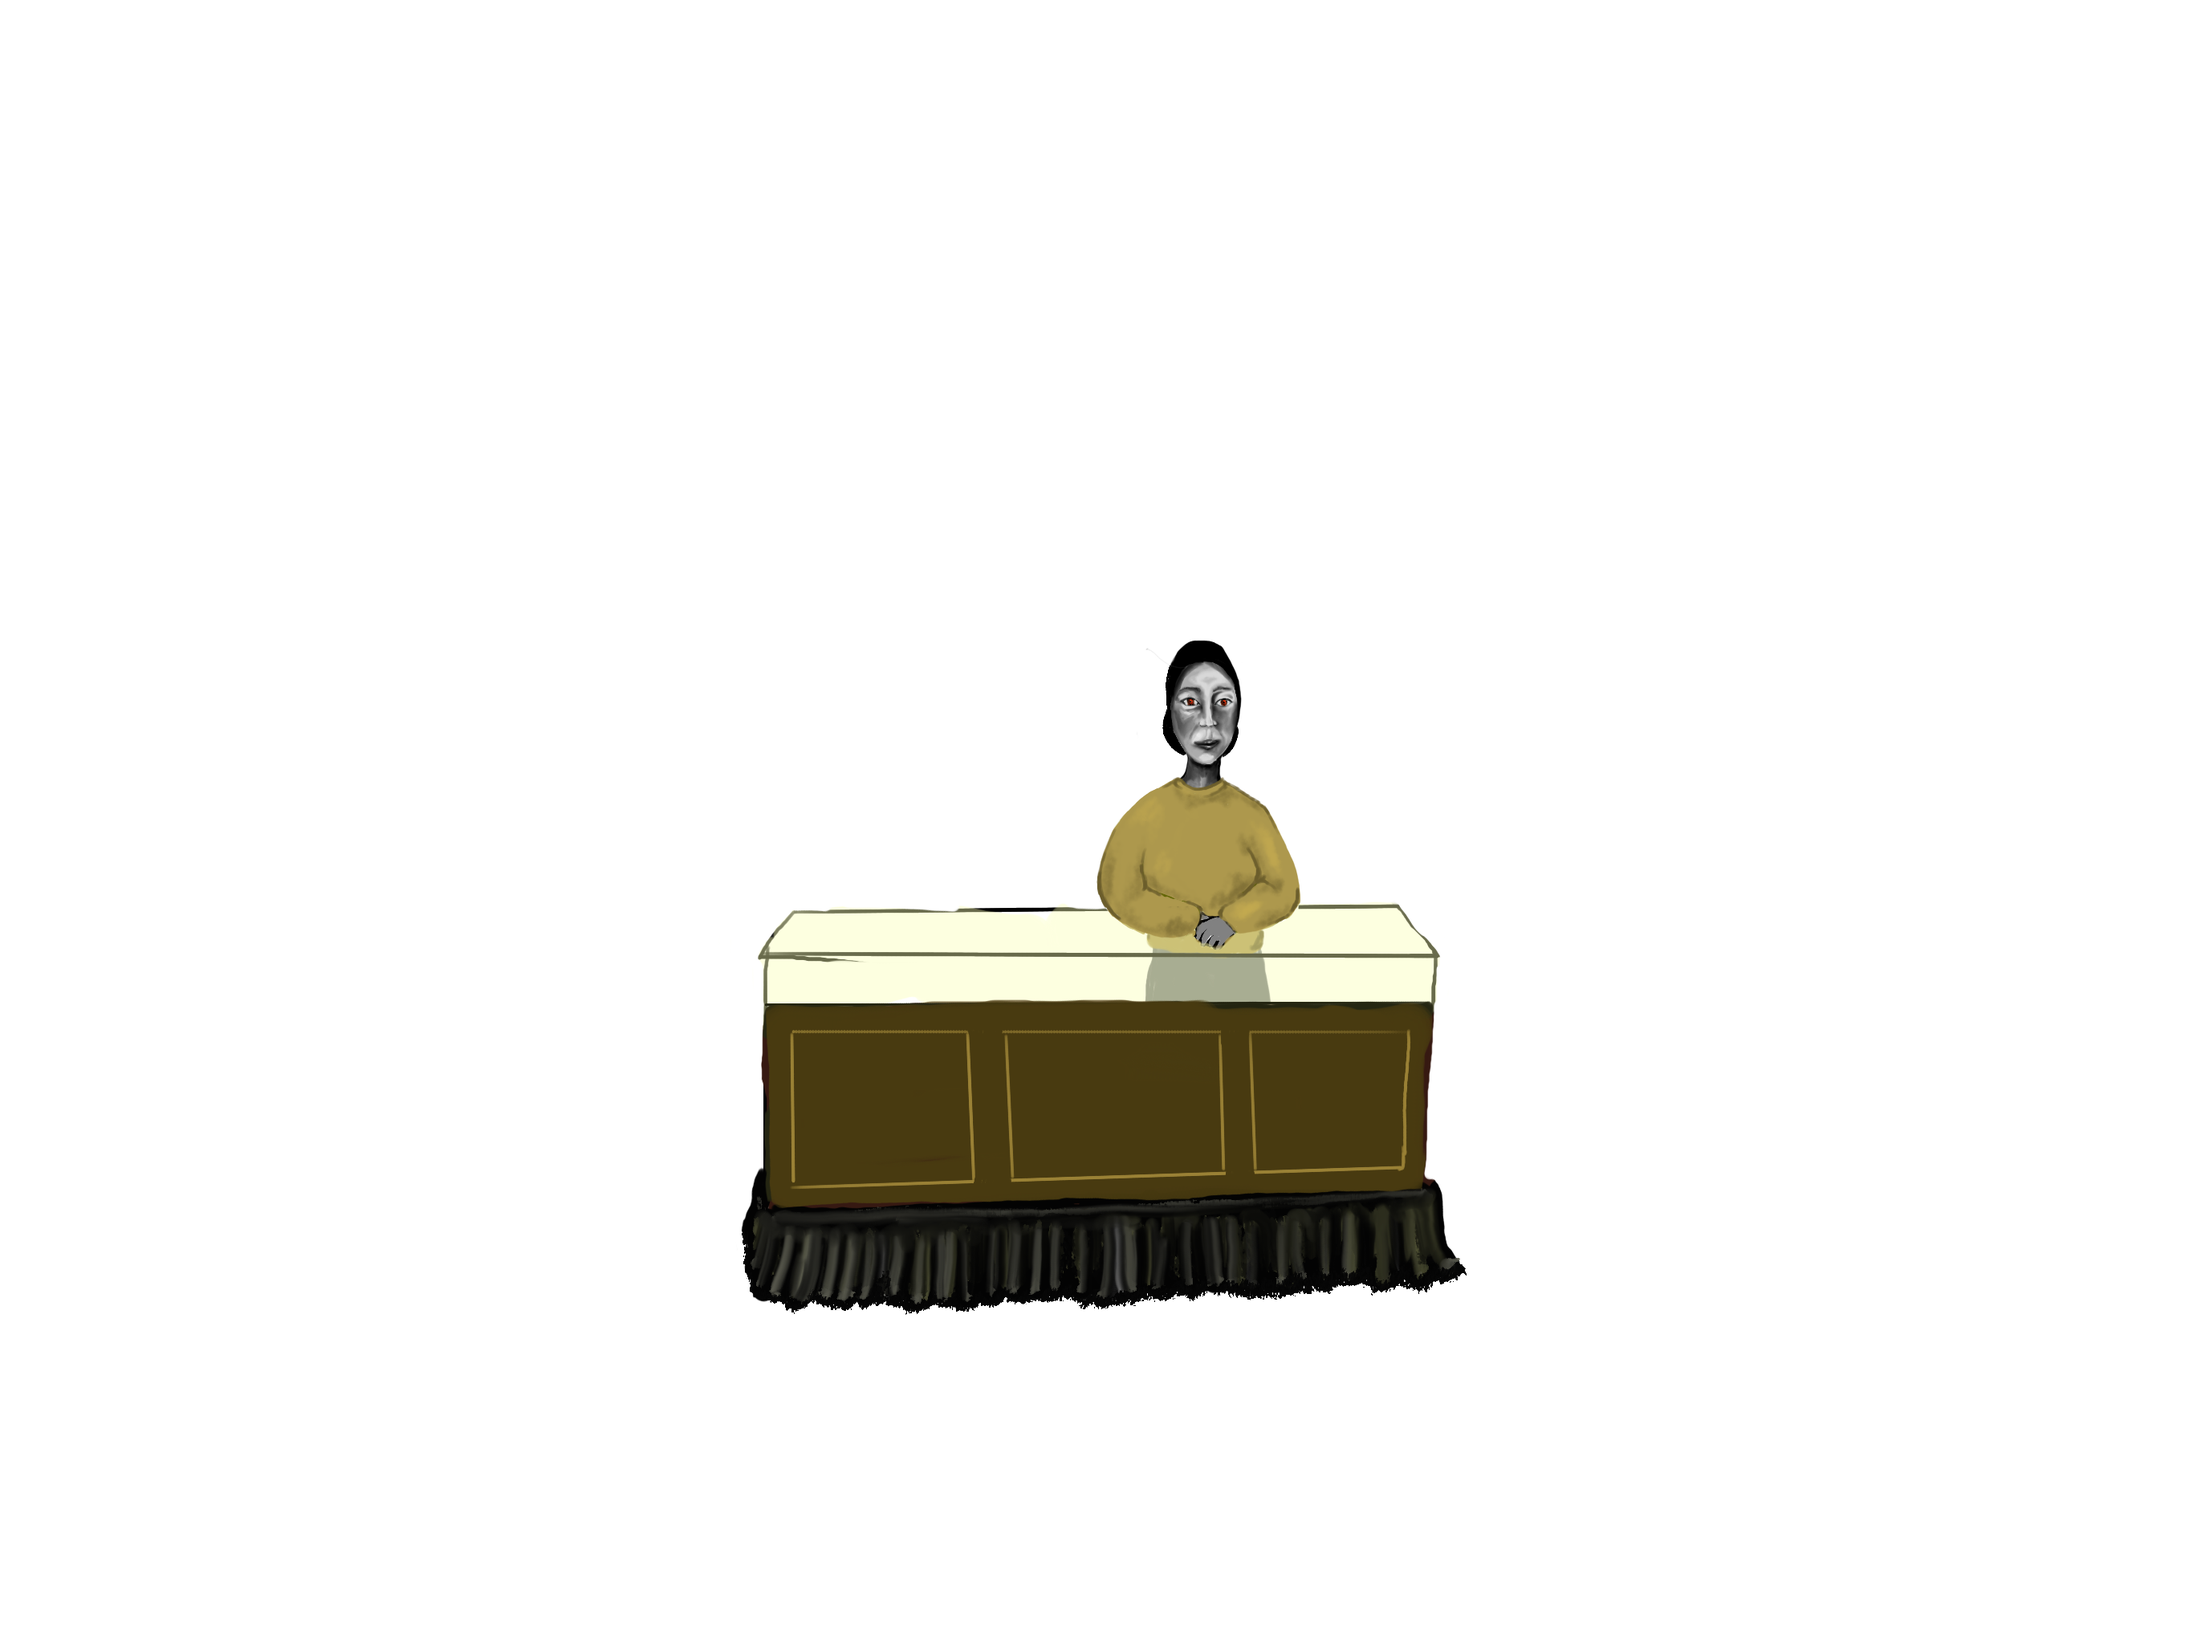
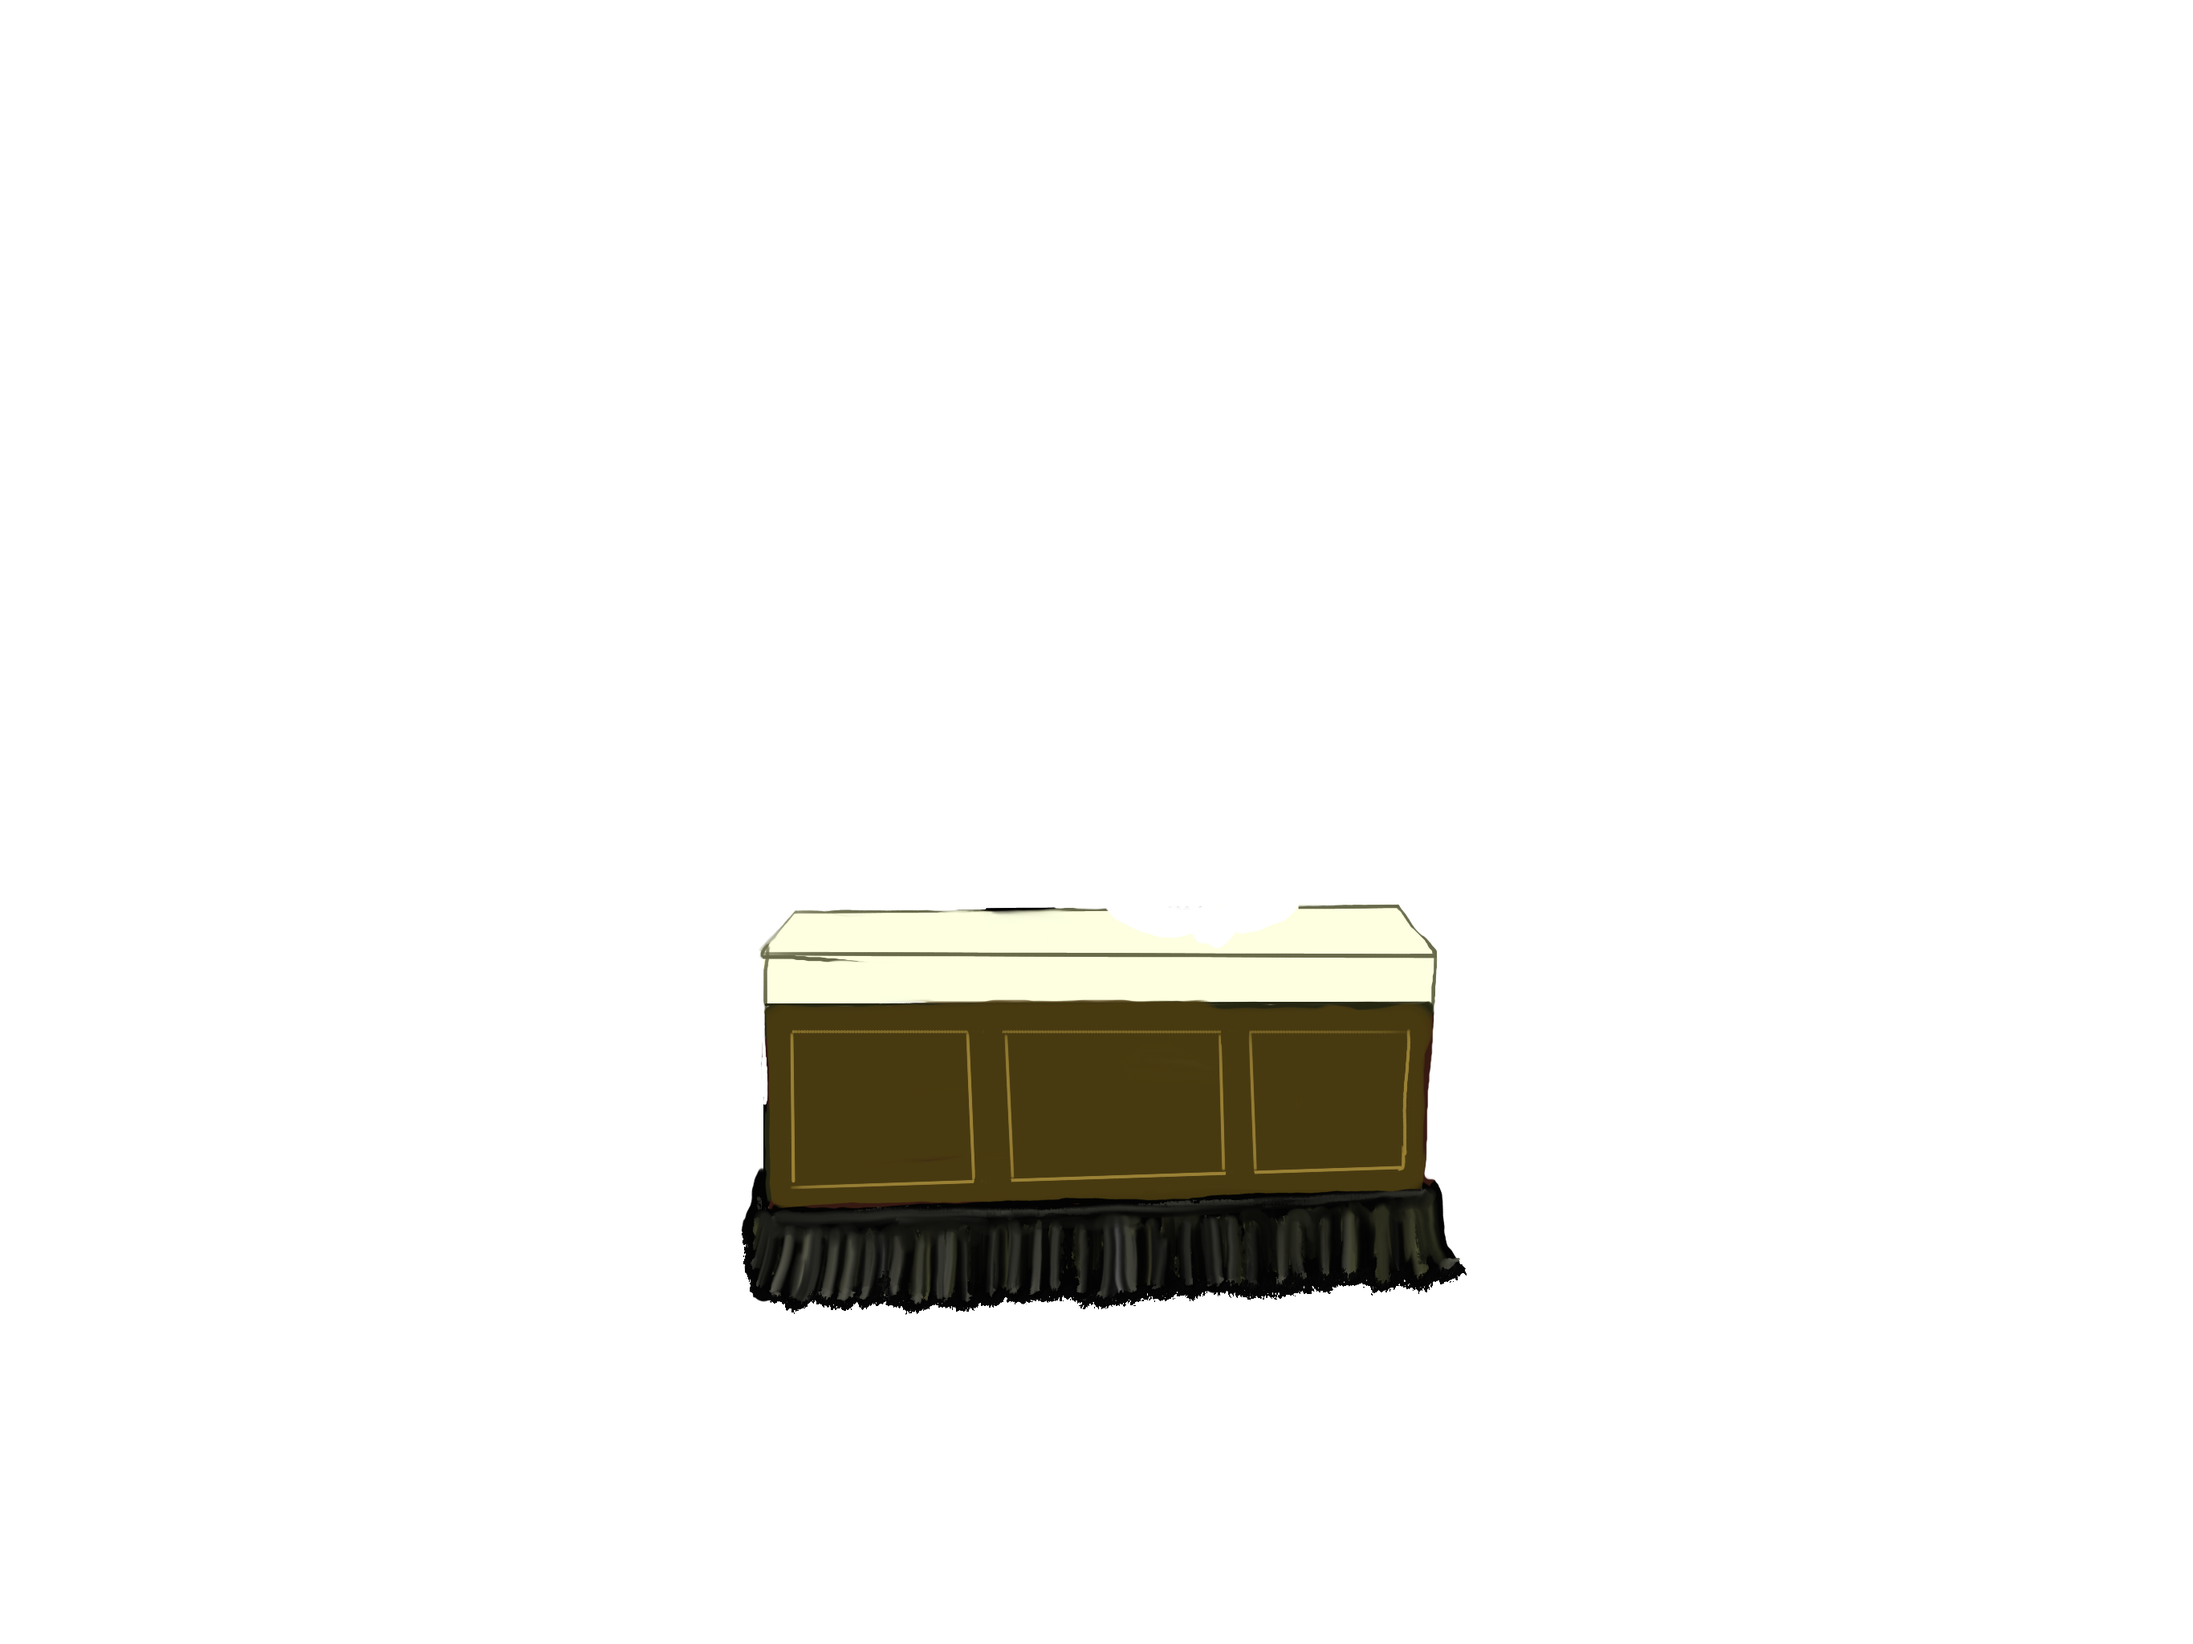
Styled artifacts/all (counter view) page

Changed region(s): [[0.4978, 0.375, 0.5911, 0.625]]

diff --git a/src/ButtonRoom.jsx b/src/ButtonRoom.jsx
@@ -2,6 +2,8 @@ import { useEffect, useState } from "react";
 import { Curtain } from "./Images/Curtain";
 import { Light } from "./Images/Light";
 import { Header } from "./Header";
+import axios from "axios";
+
 // import face from "./assets/images/facepainting.png";
 // import pupils from "./assets//images/pupilspainting.png";
 // import { autoType } from "d3";
@@ -9,9 +11,12 @@ import { ConversationModal } from "./ConversationModal";
 import { Home } from "./Home";
 
 export function ButtonRoom() {
+  const [items, setItems] = useState([]);
+
   const [mousePos, setMousePos] = useState({});
   const [showLight, setShowLight] = useState(false);
   const [openCurtain, setOpenCurtain] = useState(true);
+  let [array, setArray] = useState([]);
   const [image, setImage] = useState("./src/assets/images/curtainclosebutton.png");
 
   useEffect(() => {
@@ -60,11 +65,28 @@ export function ButtonRoom() {
     window.location.href = "/artifacts/all";
   };
   const catalog = () => {
-    window.location.href = "/artifactnew";
+    window.location.href = "/artifactroom";
   };
+
+  const handleGetItems = () => {
+    axios.get("http://localhost:3000/artifacts/all.json").then((response) => {
+      console.log(response);
+      setItems(response.data);
+    });
+  };
+
+  const handleShowItems = () => {
+    handleGetItems();
+  };
+
+  useEffect(handleShowItems, []);
 
   return (
     <div className="buttonRoom">
+      <button onClick={exitRoom}>
+        <img id="exit" src="./src/assets/images/exit.png" />
+      </button>
+
       <button onClick={handleShowLight}>
         <img id="lightswitch" src="./src/assets/images/lightswitch.png" />
       </button>
@@ -79,13 +101,11 @@ export function ButtonRoom() {
         onClick={catalog}
       ></button>
       {/* <Curtain show={openCurtain} /> */}
-
+      <img className="counterJulia" src="./src/assets/images/counterJulia.png" />
       <img className="counter" src="./src/assets/images/counter.png" />
       <img className="roombackground" src="./src/assets/images/home_background.png" />
       <img className="opencurtain" src={image} />
-
       <Light show={showLight} />
-
       <button className="talk" onClick={handleShowConversation}>
         {" "}
         talk{" "}
@@ -93,6 +113,13 @@ export function ButtonRoom() {
       <ConversationModal show={isConversationVisible} onClose={handleCloseConversation}>
         <Home />
       </ConversationModal>
+
+      <div id="artifactsinbox">
+        {" "}
+        {items.slice(0, 10).map((item) => (
+          <img src={item.image_url} width="30px" />
+        ))}{" "}
+      </div>
     </div>
   );
 }

diff --git a/src/index.css b/src/index.css
@@ -28,6 +28,11 @@ padding: 0px;
   top: 0;
 } */
 
+.showartifact{
+  position: relative;
+  z-index: 26;
+}
+
 div {
   padding: 5px;
 }
@@ -94,6 +99,29 @@ button{
   z-index: 3;
 }
 
+/* Not just my artifacts index styling */
+
+#handsonbox{
+  position: fixed;
+  top: 0;
+  left: 0;  
+  width: 100vw;
+  z-index: 11;
+
+}
+
+.greenglass{
+  background-color: rgb(199,202,154);
+  position:absolute;
+  z-index: 1;
+  top: 0;
+  width: 100vw;
+  height: auto;
+  left: 0;
+ }
+
+ 
+
 .scene {
   display: flex;
   position: absolute;
@@ -111,7 +139,33 @@ button{
 }
 
 .showingartifact {
-  width: 300px;
+  width: 180px;
+}
+
+.displayBox{
+  background-image: url("./assets/images/label.png");
+  background-size: cover;
+  z-index: 4;
+  height: 130px;
+  width: 270px;
+  padding-top: 0px;
+  margin-top: 0px;
+  font-size: small;
+}
+
+#onlabel{
+  padding-left: 57px;
+  padding-top: 40px;
+  transform: rotate(-5deg);
+  color: rgb(69,69,21, 0.8);
+  font-family: "Lora"
+}
+#onlabel2{
+  padding-left: 68px;
+  padding-top: -30px;
+  transform: rotate(-5deg);
+  color: rgba(69, 69, 21, 0.8);
+  font-family: "Lora";
 }
 
 html {
@@ -190,6 +244,14 @@ html {
 
 .counter{
   position: absolute;
+  z-index: 4;
+  height: 675px;
+  left: 50px;
+  top: 20px;
+}
+
+.counterJulia{
+  position: absolute;
   z-index: 3;
   height: 675px;
   left: 50px;
@@ -244,6 +306,15 @@ html {
   color: transparent;
   position: absolute;
   z-index: 15;
+  top: 400px;
+  height: 40px;
+  width:280px;
+  left: 360px;
+}
+
+#artifactsinbox{
+  position: absolute;
+  z-index: 3;
   top: 400px;
   height: 40px;
   width:280px;

diff --git a/src/NotJustMyArtifactsIndex.jsx b/src/NotJustMyArtifactsIndex.jsx
@@ -5,21 +5,25 @@ export function NotJustMyArtifactsIndex(props) {
 
   return (
     <div id="artifacts-index">
-      Search Filter:
+      {/* Search Filter:
       <input
         className="container"
         type="text"
         value={searchFilter}
         onChange={(event) => setSearchFilter(event.target.value)}
-      />
+      /> */}
       {props.artifacts
         .filter((artifacts) => artifacts.name.toLowerCase().includes(searchFilter.toLowerCase()))
         .map((artifact) => (
           <div key={artifact.id} id="artifact">
-            <h2> Name: {artifact.name}</h2>
             <img className="showingartifact" src={artifact.image_url} alt="" />
-            <p> Price: {artifact.price_in_points}</p>
-            <button onClick={() => props.onShowArtifact(artifact)}>More Info</button>
+            <div className="displayBox">
+              <p id="onlabel"> This is a {artifact.name}.</p>
+              <p id="onlabel2"> It costs {artifact.price_in_points} points. </p>
+            </div>
+            <button className="showartifact" onClick={() => props.onShowArtifact(artifact)}>
+              Take a closer look
+            </button>
           </div>
         ))}
     </div>

diff --git a/src/ConversationModal.css b/src/ConversationModal.css
@@ -9,15 +9,16 @@
   background-color:transparent;
 }
 
+
 .cmodal-main {
   position: absolute;
-  background: lightgrey;
+  background: transparent;
   width: 500px;
   height: auto;
-  top: 150px;
-  left: 500px;
-  transform: translate(-50%,-50%);
-  padding: 1em;
+  top: -50px;
+  left: 400px;
+  font-style: bold;
+  text-shadow: 0 0 4px #fff, 0 0 5px #fff, 0 0 6px #fff, 0 0 7px #fff, 0 0 8px #fff, 0 0 9px #fff, 0 0 10px #fff;
 }
 
 .cmodal-main button.close {
@@ -25,6 +26,5 @@
   background: none;
   border: none;
   position: absolute;
-  top: 0em;
-  right: 0.2em;
+  bottom: -2em;
 }

diff --git a/src/TextAdventure.jsx b/src/TextAdventure.jsx
@@ -102,10 +102,16 @@ export function TextAdventure(props) {
   return (
     <div>
       <p>{text}</p>
+      <br></br>
+      <br></br>
+      <br></br>
+      <br></br>
+
       <button className="plain" onClick={handleChangeText}>
         {" "}
         {buttonText}
       </button>
+      <br></br>
       <button className="plain" onClick={handleChangeTextTwo}>
         {" "}
         {buttonTextTwo}

diff --git a/src/NotJustMyArtifacts.jsx b/src/NotJustMyArtifacts.jsx
@@ -45,7 +45,8 @@ export function NotJustMyArtifacts() {
   useEffect(handleIndexArtifacts, []);
 
   return (
-    <div>
+    <div className="greenglass">
+      <img id="handsonbox" src="/src/assets/images/handsoncounter.png" />
       <h1> Artifacts Available</h1>
 
       <NotJustMyArtifactsIndex artifacts={artifacts} onShowArtifact={handleShowArtifact} />

diff --git a/src/App.css b/src/App.css
@@ -99,5 +99,8 @@ a:active { text-decoration: none; }
 }
 
 .plain:hover{
-  background-color: grey;
+  text-decoration: underline;  
+  text-decoration-color: black;
+  text-decoration-thickness: 2px;
+  
 }
